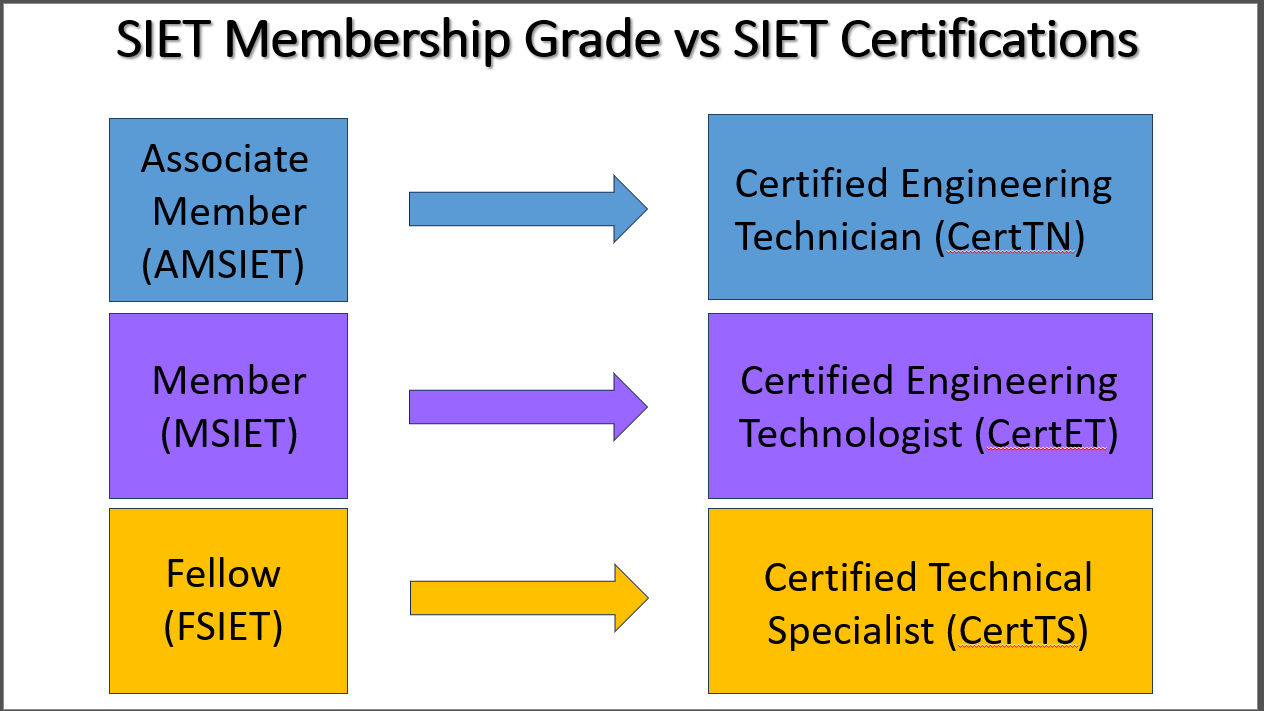
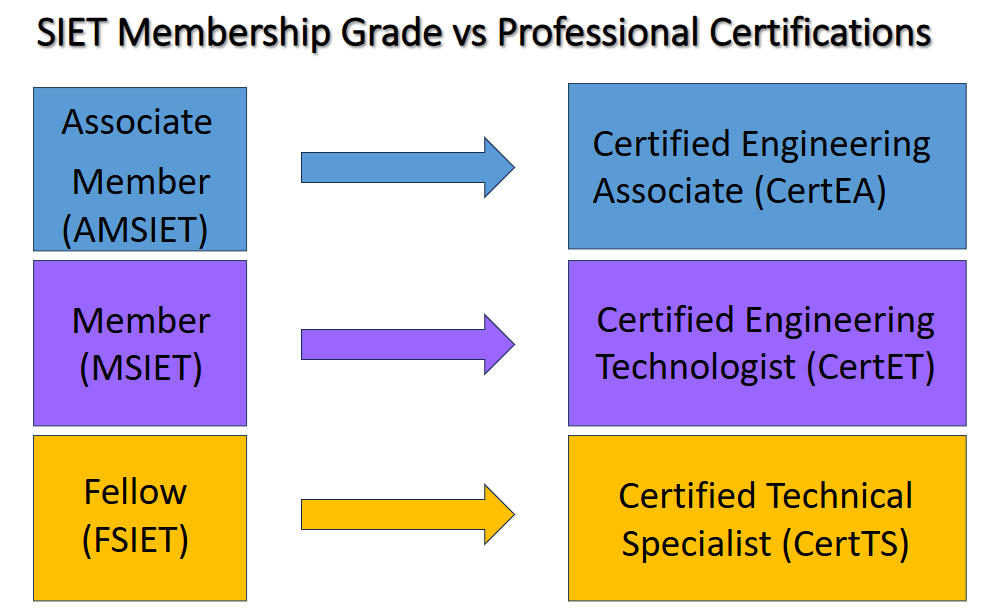
fix command by pptx 15.2.26

diff --git a/siet-tpc.php b/siet-tpc.php
@@ -77,7 +77,7 @@
           <div class="col-lg-4">
             <div class="tpc-cover-card">
               <img
-                src="images/cert/engineering-ethics-cover.png"
+                src="images/cert/tcppdf.PNG"
                 alt="Engineering Ethics in Practice cover"
                 class="tpc-cover-img"
               />
@@ -86,13 +86,13 @@
                 Please attach the above file in SIET website for reference.
               </div>
 
-              <a
+              <!-- <a
                 class="btn btn-primary tpc-download-btn"
                 href="assets/pdfs/Engineering Ethics in practice - A Guide for Engineers.pdf"
                 download
               >
                 Download PDF Reference
-              </a>
+              </a> -->
             </div>
           </div>
 
@@ -109,12 +109,19 @@
                 </p>
 
                 <p class="tpc-article-p">
-                  For existing registered engineers the document is a well-written and useful guide. Moreover, reading this document
+                  For existing registered Engineering professionals the document is a well-written and useful guide. Moreover, reading this document
                   would contribute towards Continued Professional Development (CPD).
                 </p>
 
                 <div class="tpc-article-footer">
-                  <span class="tpc-footer-text">You can download a PDF copy using the button on the left.</span>
+                  <!-- <span class="tpc-footer-text">You can download a PDF copy using the button on the left.</span> -->
+                  <a
+                class="btn btn-primary tpc-download-btn"
+                href="assets/pdfs/Engineering Ethics in practice - A Guide for Engineers.pdf"
+                download
+              >
+                Download PDF Reference
+              </a>
                 </div>
               </div>
             </div>
@@ -147,16 +154,16 @@ Exemptions / Recognition Pathways
             <li class="tpc-bullet-blue">
               <span class="tpc-bullet-dot"></span>
               <span>
-                Resident Engineer (RE) can be registered as SIET Certified Technical Specialist
-                (<span class="tpc-underline">CertTS</span>)
+                Resident Engineer (RE) <span style="font-weight: normal;">can be registered as SIET Certified Technical Specialist
+                (<span class="tpc-underline">CertTS</span>)</span>
               </span>
             </li>
 
             <li class="tpc-bullet-pink">
               <span class="tpc-bullet-dot"></span>
               <span>
-                Resident Technical Officer (RTO) can be registered as SIET Certified Engineering Technologists
-                (<span class="tpc-underline">CertET</span>)
+                Resident Technical Officer (RTO) <span style="font-weight: normal;">can be registered as SIET Certified Engineering Technologists
+                (<span class="tpc-underline">CertET</span>)</span>
               </span>
             </li>
           </ul>
@@ -174,8 +181,7 @@ Exemptions / Recognition Pathways
               <div class="tpc-lew-head">LEW (Grade 9):</div>
               <ul class="tpc-black-list">
                 <li>
-                  Can apply to become SIET Certified Technical Specialist with proven track records of complex projects
-                  and substantial practical experience
+                  Can apply to become SIET Certified Technical Specialist with proven track records of complex projects and substantial practical experience
                 </li>
               </ul>
             </div>
@@ -193,10 +199,9 @@ Exemptions / Recognition Pathways
             <div class="tpc-lew-item">
               <div class="tpc-lew-head">LEW (Grade 7):</div>
               <ul class="tpc-black-list">
-                <li>Can apply to become SIET Certified Engineering Technician</li>
+                <li>Can apply to become SIET Certified Engineering Associate</li>
                 <li>
-                  Can apply to become SIET Certified Engineering Technologists with proven track records of complex projects
-                  and substantial practical experience and leadership
+                  Can apply to become SIET Certified Engineering Technologists with proven track records of complex projects and substantial practical experience and leadership
                 </li>
               </ul>
             </div>
@@ -425,7 +430,7 @@ Exemptions / Recognition Pathways
 
     .tpc-underline{
       text-decoration: underline;
-      font-weight: 900;
+      font-weight: normal;
     }
 
     .tpc-lew-group{

diff --git a/fellows.php b/fellows.php
@@ -10,7 +10,7 @@
       <div class="row align-items-center g-4">
         <div class="col-lg-8">
           <span class="badge-soft mb-3 d-inline-block">About SIET</span>
-          <h1 class="mb-2">Honorary Advisers with Honorary Fellows</h1>
+          <h1 class="mb-2">Honorary Patron and Honorary Fellows</h1>
           <!-- <p class="lead mb-0">
             Key milestones and achievements in SIET’s journey since 1980.
           </p> -->
@@ -32,7 +32,7 @@
 
         <!-- LEFT: HONORARY PATRON -->
         <div class="col-lg-5">
-          <!-- ✅ removed title "Our Honorary Patron" -->
+          <!--  removed title "Our Honorary Patron" -->
 
           <div class="patron-wrap text-center">
             <img
@@ -51,41 +51,37 @@
 
         <!-- RIGHT: HONORARY ADVISERS -->
         <div class="col-lg-7">
-          <!-- ✅ replaced title text -->
+          <!--  replaced title text -->
           <h1 class="fellows-title text-center text-lg-start">Honorary Fellows</h1>
 
           <div class="advisers-table mt-3">
             <div class="advisers-head">
-              <div class="advisers-col advisers-col--name">Honorary Fellows
-</div>
-              <div class="advisers-col advisers-col--func">Function</div>
+              <!-- <div class="advisers-col advisers-col--name">Honorary Fellows</div> -->
+              <!-- <div class="advisers-col advisers-col--func">Function</div> -->
             </div>
 
             <!-- Row 1 -->
             <div class="advisers-row">
               <div class="advisers-col advisers-col--name">
-                <span class="num">1.</span> <span class="name fw-bold">Dr Sam Man Keong
-</span>
+                <span class="num">1.</span> <span class="name fw-bold">Dr Sam Man Keong</span>
               </div>
-              <div class="advisers-col advisers-col--func">Financial Matters</div>
+              <!-- <div class="advisers-col advisers-col--func">Financial Matters</div> -->
             </div>
 
             <!-- Row 2 -->
             <div class="advisers-row">
               <div class="advisers-col advisers-col--name">
-                <span class="num">2.</span> <span class="name fw-bold">Mr TRC Raja
- </span>
+                <span class="num">2.</span> <span class="name fw-bold">Mr TRC Raja</span>
               </div>
-              <div class="advisers-col advisers-col--func">Legal Matters</div>
+              <!-- <div class="advisers-col advisers-col--func">Legal Matters</div> -->
             </div>
 
             <!-- Row 3 -->
             <div class="advisers-row">
               <div class="advisers-col advisers-col--name">
-                <span class="num">3.</span> <span class="name fw-bold">Dr Low Sui Pheng 
-</span>
+                <span class="num">3.</span> <span class="name fw-bold">Dr Low Sui Pheng </span>
               </div>
-              <div class="advisers-col advisers-col--func">Education</div>
+              <!-- <div class="advisers-col advisers-col--func">Education</div> -->
             </div>
 
 

diff --git a/membership-pathways.php b/membership-pathways.php
@@ -71,7 +71,7 @@
           </p>
 
           <p class="slide-cta">
-            <strong>Join SIET today.</strong> Be recognised. Be connected. Be globally respected.
+            <strong class="joinsiettoday">Join SIET today.</strong> Be recognised. Be connected. Be globally respected.
           </p>
 
           <p class="slide-foot">
@@ -113,7 +113,7 @@
                     <ul class="cell-ul">
                       <li>Age : ≥ 30 years</li>
                       <li>
-                        Qualification: Polytechnic Advanced Diploma in any engineering/IT discipline or
+                        Qualification: Polytechnic Advanced Diploma in any engineering/ICT discipline or
                         BEng from NTU/NUS/SUTD/SUSS/SIT or City &amp; Guilds Master Professional Diploma in Engineering
                         or its equivalent, e.g. BCA – Registered RE
                         [website:
@@ -130,7 +130,7 @@
                     <ul class="cell-ul">
                       <li>Age : ≥ 25 years</li>
                       <li>
-                        Qualification: Polytechnic Diploma in any engineering/IT related discipline or City &amp; Guild - HPDip in Engineering
+                        Qualification: Polytechnic Diploma in any engineering/ICT related discipline or City &amp; Guild - HPDip in Engineering
                         or its equivalent, e.g. BCA- Registered Technical Officer.
                         [website:
                         <a class="mp-link" href="http://www.cityandguilds.com/Engineering.html" target="_blank" rel="noopener">
@@ -148,7 +148,7 @@
                     <ul class="cell-ul">
                       <li>Age : ≥ 23 years</li>
                       <li>
-                        Qualification: ITE – Higher Nitec in any engineering/IT discipline or City &amp; Guild - Technician Diploma in Engineering
+                        Qualification: ITE – Higher Nitec in any engineering/ICT discipline or City &amp; Guild - Technician Diploma in Engineering
                         or its equivalent.
                       </li>
                       <li>Experience: ≥ 3 years in engineering.</li>
@@ -238,6 +238,12 @@
     }
 
     .slide-subtitle{
+      font-size: 1.15rem;
+      font-weight: 900;
+      margin: 6px 0 8px 0;
+      color:#111;
+    }
+    .joinsiettoday{
       font-size: 1.15rem;
       font-weight: 900;
       margin: 6px 0 8px 0;

diff --git a/cert-vs-membership.php b/cert-vs-membership.php
@@ -45,7 +45,7 @@
           </p>
 
           <p class="cert-p mb-2">
-            <strong>Three levels</strong> of SIET Certification Scheme for Engineering and IT Professionals are:
+            <strong>Three levels</strong> of SIET Certification Scheme for Engineering and ICT Professionals are:
           </p>
           <ul class="cert-ul">
             <li>Level 1 – Certified Engineering Associate (<span class="cert-code">CertEA</span>) for ‘Engineering Technician’;</li>
@@ -57,13 +57,13 @@
           <p class="cert-p">
             All applicants are assessed by a Committee of members and via a professional report and an interview or a written test on
             <strong>‘Engineering Ethics’</strong> for registration as <span class="cert-code">CertTS</span> and <span class="cert-code">CertET</span>
-            respectively. For <span class="cert-code">CertTN</span>, it will be assessed based on written case studies and passing multiple choice
+            respectively. For <span class="cert-code">CertEA</span>, it will be assessed based on written case studies and passing multiple choice
             questions (MCQs) on <strong>‘Engineering Ethics’</strong>.
           </p>
 
           <ul class="cert-ul">
             <li>Professional report evaluation</li>
-            <li>Part A: Written case studies and MCQs on Engineering Ethics (for <span class="cert-code">CertTN</span>)</li>
+            <li>Part A: Written case studies and MCQs on Engineering Ethics (for <span class="cert-code">CertEA</span>)</li>
             <li>Part B: Interview or written test on Engineering Ethics (for <span class="cert-code">CertTS</span> and <span class="cert-code">CertET</span>)</li>
           </ul>
 

diff --git a/why-member.php b/why-member.php
@@ -75,15 +75,15 @@
      BUTTONS (Restored)
      ====================== -->
 <div class="why-actions">
-  <a href="professionalexaminations.php" class="why-btn why-btn-primary">
+  <!-- <a href="professionalexaminations.php" class="why-btn why-btn-primary">
     Professional Membership
-  </a>
+  </a> -->
 
   <a href="membership-benefits.php" class="why-btn why-btn-outline">
     Membership Benefits
   </a>
 
-  <a href="membership-pathways.php" class="why-btn why-btn-dark">
+  <a href="membership-pathways.php" class="why-btn why-btn-primary">
     Membership Pathways
   </a>
 </div>

diff --git a/mature-candidate.php b/mature-candidate.php
@@ -47,7 +47,7 @@
           </ul>
 
           <p class="mc-p">
-            By <span class="mc-u-red">recognising</span> proven expertise, lifelong contribution, and professional competence,
+            By recognising proven expertise, lifelong contribution, and professional competence,
             SIET ensures that experience stands proudly alongside education. This is your opportunity to gain formal recognition,
             elevate your professional standing, and join a respected body that values integrity, excellence, and global connection.
           </p>

diff --git a/cert-application.php b/cert-application.php
@@ -60,7 +60,7 @@
       <div class="col-lg-4">
         <div class="lead-card p-4">
           <h2 class="h6 fw-bold">Downloads</h2>
-          <p class="text-muted small">Add your official forms here (PDF). Sample provided below.</p>
+          <!-- <p class="text-muted small">Add your official forms here (PDF). Sample provided below.</p> -->
 
           <a class="btn btn-download w-100" href="assets/downloads/SIET_Certification_Application_Form.pdf" download>
             Download Application Form

diff --git a/professionalexaminations.php b/professionalexaminations.php
@@ -272,7 +272,7 @@
             </div>
 <br>
 <div>
-  <h3 style="font: bold;">Present Competency Based Assessment(CBA) Scheme</h3>
+  <h3 style="font: bold;">Present Scheme - Competency Based Assessment (CBA)</h3>
   <p class="pe-paragraph mt-4">
               With the expansion of universities and polytechnics offering accredited programs, SIET has transitioned from
               traditional examinations to Competency Based Assessment (CBA). This framework evaluates whether technologists

diff --git a/introduction.php b/introduction.php
@@ -17,7 +17,7 @@
         <span class="badge-soft mb-3 d-inline-block">About SIET</span>
         <h1 class="mb-2">Introduction</h1>
         <p class="lead mb-0">
-          A national professional body supporting engineering technologists and technicians in Singapore, with strong
+          A national professional body supporting engineering and ICT technologists and technicians in Singapore, with strong
         regional and global connections.
         </p>
       </div>

diff --git a/cert-fees.php b/cert-fees.php
@@ -74,8 +74,8 @@
               <span class="fees-blue">(AMSIET)</span>
             </td>
             <td class="fees-td">
-              Certified Engineering Technician<br>
-              <span class="fees-pink">(CertTN)</span>
+              Certified Engineering Associate<br>
+              <span class="fees-pink">(CertEA)</span>
             </td>
             <td class="fees-td fees-center">S$100.00</td>
             <td class="fees-td fees-center">S$50.00</td>

diff --git a/students-members.php b/students-members.php
@@ -34,7 +34,7 @@
             <li>SIET Membership Certificate</li>
             <li>Academic and career counselling</li>
             <li>Professional pathways guidance</li>
-            <li>Exclusive access to IT &amp; engineering events</li>
+            <li>Exclusive access to ICT &amp; engineering events</li>
             <li>Mentorship and support toward professional recognition</li>
           </ul>
         </div>
